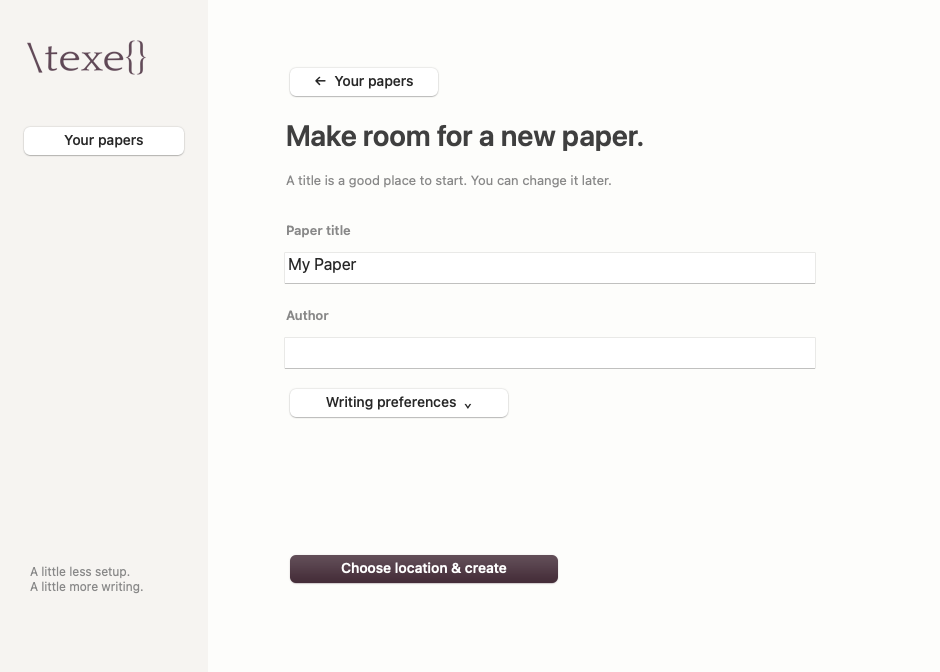
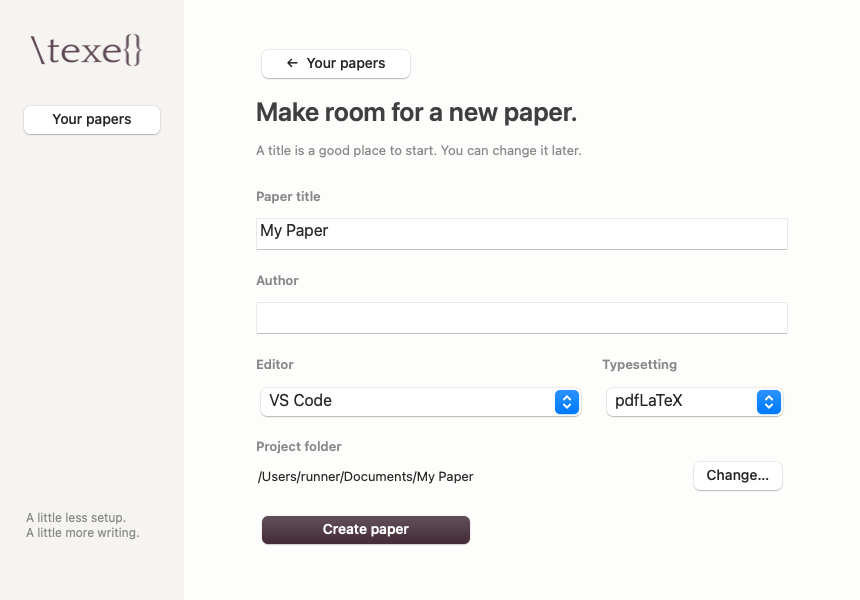
Document compact setup and guided editor installation

diff --git a/desktop/README.md b/desktop/README.md
@@ -12,8 +12,9 @@ stdin; no user text is evaluated as shell code. The app prepends its private
 suite and standard VS Code locations to the child PATH without changing the
 user's environment. A bounded transcript is available through Show details, including after failures.
 
-The user selects the paper directory explicitly. New-paper setup refuses an
-existing destination. Adoption runs the CLI's compatibility checks and preserves
+The user selects a parent directory. New-paper setup always creates a named
+subfolder inside it and displays the full destination before creation. It refuses
+an existing destination. Adoption runs the CLI's compatibility checks and preserves
 sources. Editor conflicts fail visibly; the GUI does not force replacement.
 The first build precedes editor setup, so editor failures retain the PDF.
 
@@ -21,9 +22,18 @@ The first build precedes editor setup, so editor failures retain the PDF.
 
 The document-first home leads to New paper or Open a paper. New-paper setup asks
 for a title and author, derives the folder name from the title, and lets the user
-choose its parent directory. Writing preferences disclose editor and typesetting
-choices. Build progress has its own page; the transcript opens in a separate
-native details window. The fixed reading width stays centred as the app resizes.
+choose its parent directory using the system folder picker. Editor and typesetting
+choices remain visible, with VS Code and pdfLaTeX selected by default. The window
+has a compact, fixed size and cannot maximize. Text can be selected and copied.
+Build progress has its own page; the transcript opens in a separate native details
+window. Errors that require action appear directly on the main page.
+
+If VS Code is missing, a dedicated setup page offers installation before creating
+or opening the paper. Downloads use Microsoft's update service and verify its
+SHA-256 hash. Windows opens the official per-user installer; macOS verifies the
+application signature and installs into the user's Applications folder. Setup
+continues automatically after installation. Users who install VS Code themselves
+can choose “I’ve installed it” to check again.
 
 Brand assets in `desktop/brand/texe` were generated by the sibling Backmatter
 logo renderer from its Quattrocento outlined wordmark and mauve family palette.

diff --git a/docs/previews/README.md b/docs/previews/README.md
@@ -1,11 +1,11 @@
 # Native interface previews
 
 These screenshots were rendered by the real AppKit and Windows Forms apps on
-GitHub's macOS 15 and Windows Server 2025 runners, from commit `ea50491`.
+GitHub's macOS 15 and Windows Server 2025 runners, from commit `ade2fa2`.
 The Windows title bar reflects the server runner's theme. These are screenshots,
 not interactive browser versions of the apps.
 
-- [macOS home](macos.png) and [new paper](macos-setup.png)
-- [Windows home](windows.png) and [new paper](windows-setup.png)
+- [macOS home](macos.png) and [new paper](macos-setup.png), and [VS Code setup](macos-code.png)
+- [Windows home](windows.png) and [new paper](windows-setup.png), and [VS Code setup](windows-code.png)
 
-[Capture run](https://github.com/backmatter/texe/actions/runs/34380929593)
+[Capture run](https://github.com/backmatter/texe/actions/runs/34384591626)
